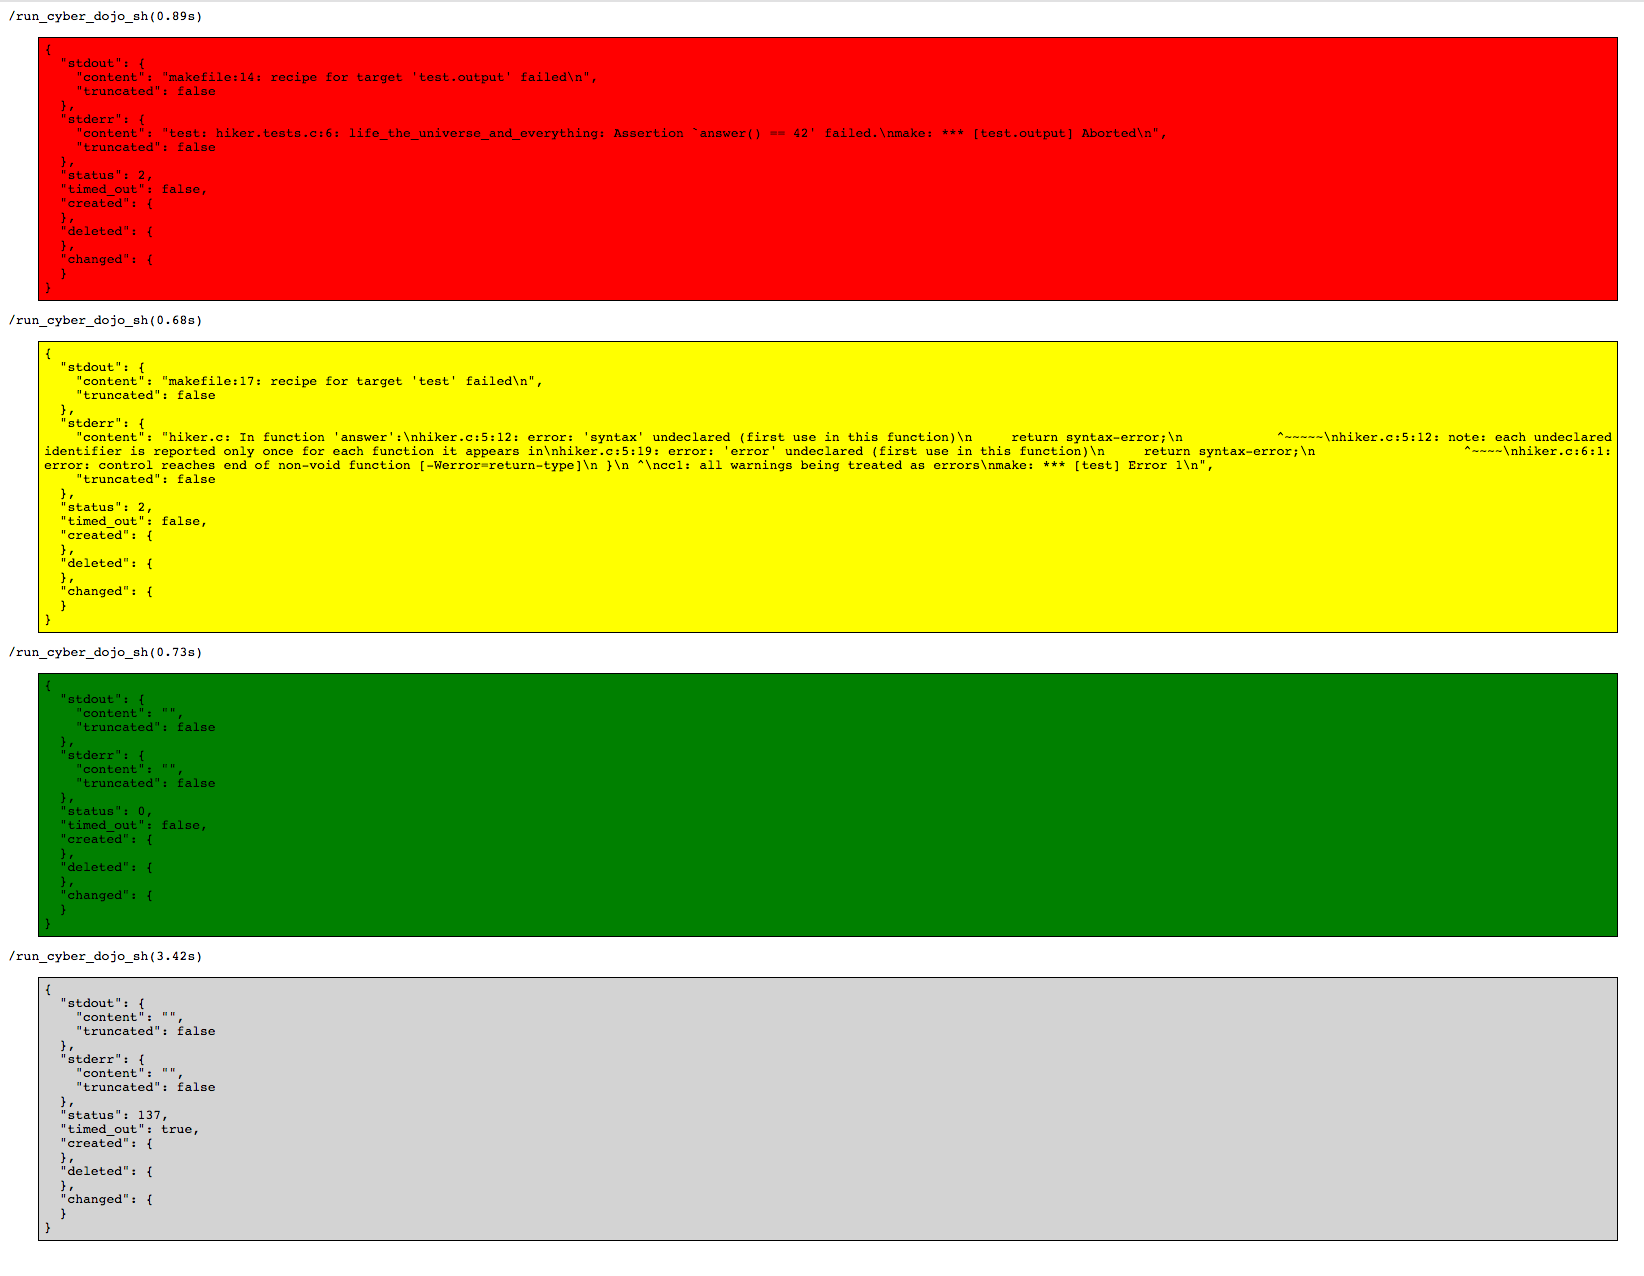
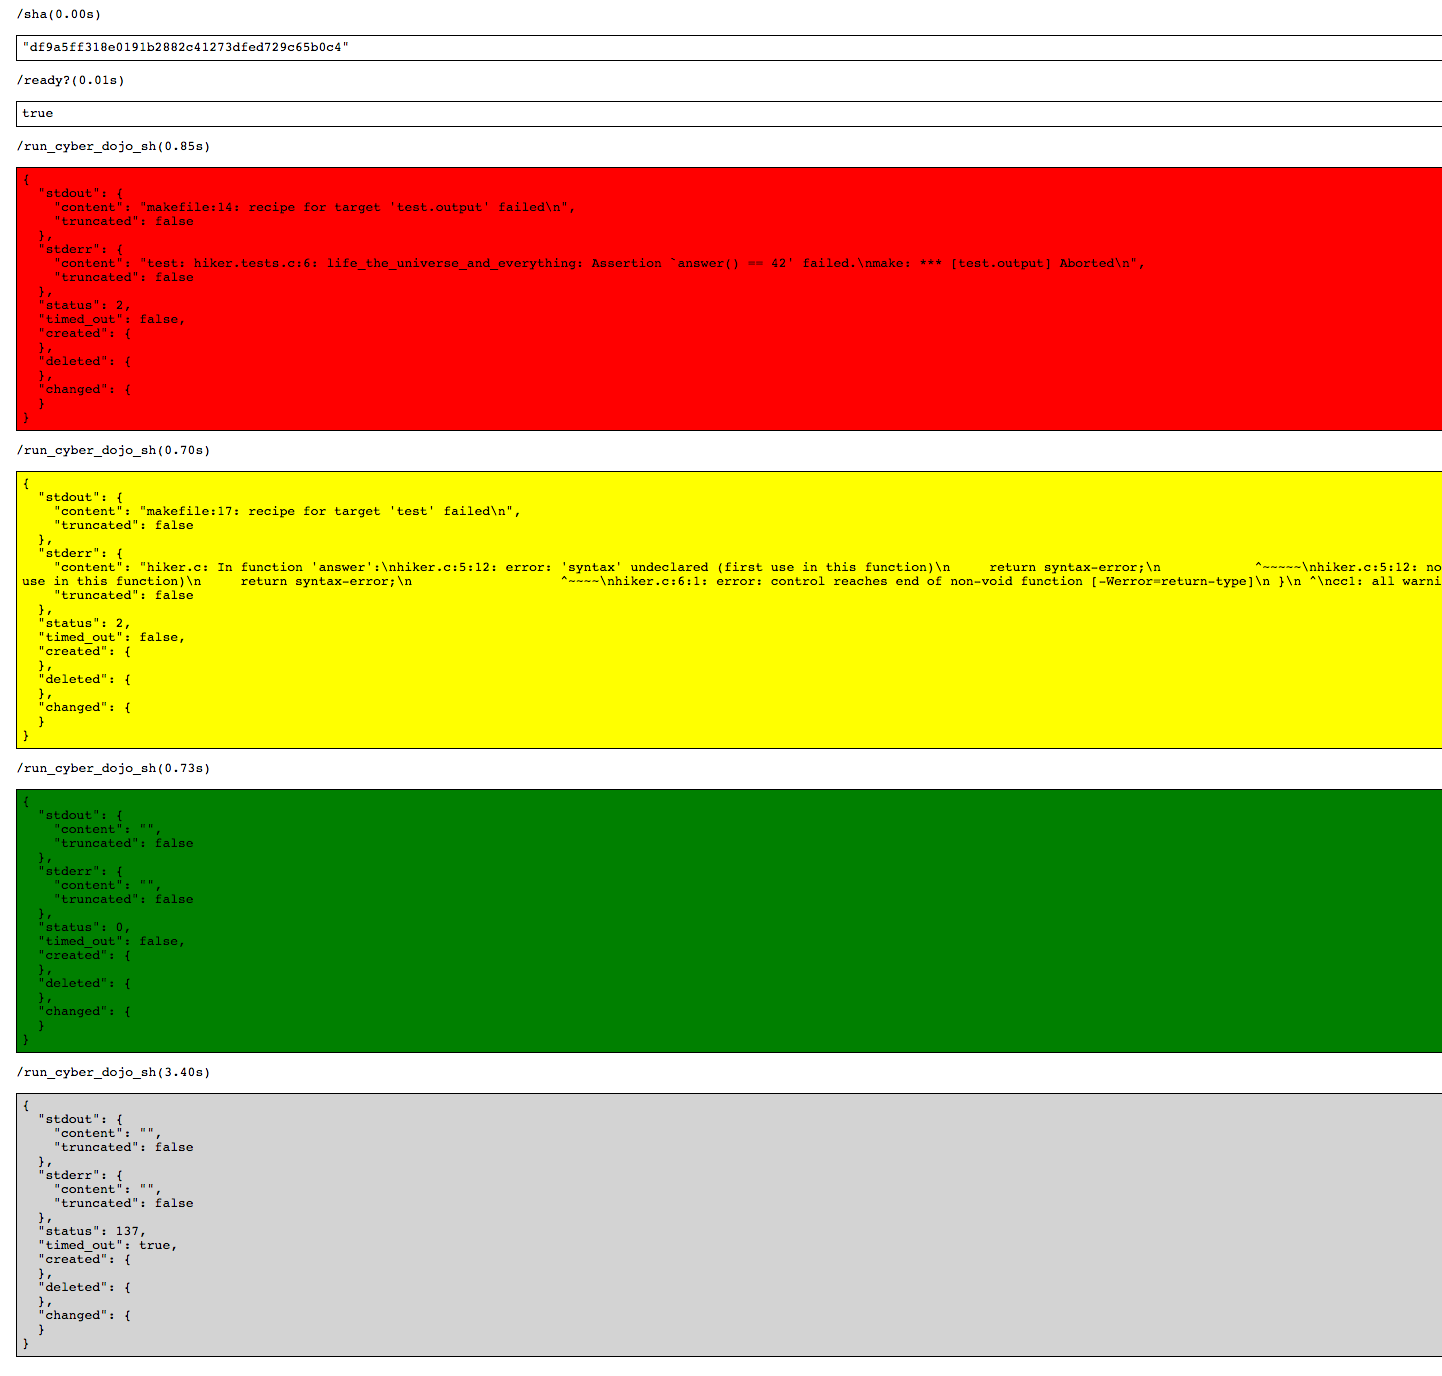
[ci skip] add sha/ready? calls to demo

diff --git a/test_client/src/demo.rb b/test_client/src/demo.rb
@@ -15,6 +15,8 @@ class Demo
     @image_name = 'cyberdojofoundation/gcc_assert'
     @id = '729z65'
     @files = starting_files
+    sha
+    ready?
     change('hiker.c', hiker_c['content'].sub('6 * 9', '6 * 9'))
     run_cyber_dojo_sh('Red')
     change('hiker.c', hiker_c['content'].sub('6 * 9', 'syntax-error'))
@@ -29,6 +31,16 @@ class Demo
 
   def change(filename, content)
     @files[filename] = { 'content' => content }
+  end
+
+  def sha
+    duration = timed { @result = runner.sha }
+    @html += pre('sha', duration, 'white', @result)
+  end
+
+  def ready?
+    duration = timed { @result = runner.ready? }
+    @html += pre('ready?', duration, 'white', @result)
   end
 
   def run_cyber_dojo_sh(css_colour, max_seconds = 10)
@@ -80,7 +92,7 @@ class Demo
     margin = 'margin-left: 30px; margin-right: 30px;'
     background = "background: #{colour};"
     whitespace = "white-space: pre-wrap;"
-    html = "<pre>/#{name}(#{duration}s)</pre>"
+    html = "<pre style='margin-left:30px'>/#{name}(#{duration}s)</pre>"
     unless result.nil?
       html += "<pre style='#{whitespace}#{margin}#{border}#{padding}#{background}'>" +
               "#{JSON.pretty_unparse(result)}" +

diff --git a/test_client/src/runner_service.rb b/test_client/src/runner_service.rb
@@ -9,6 +9,14 @@ class RunnerService
 
   # - - - - - - - - - - - - - - - - - - -
 
+  def sha
+    get([], __method__)
+  end
+
+  def ready?
+    get([], __method__)
+  end
+
   def run_cyber_dojo_sh(image_name, id, files, max_seconds)
     args  = [image_name, id, files, max_seconds]
     get(args, __method__)
